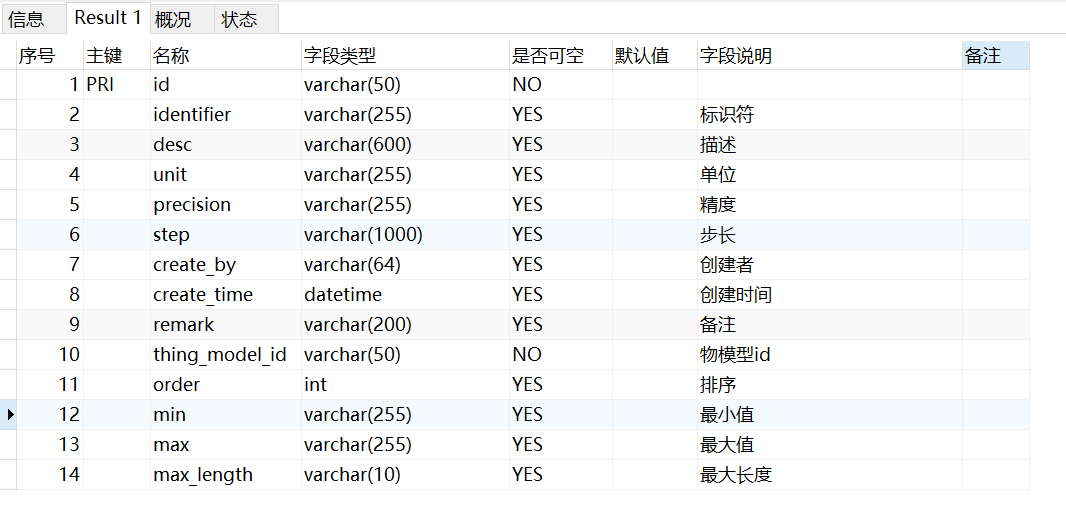
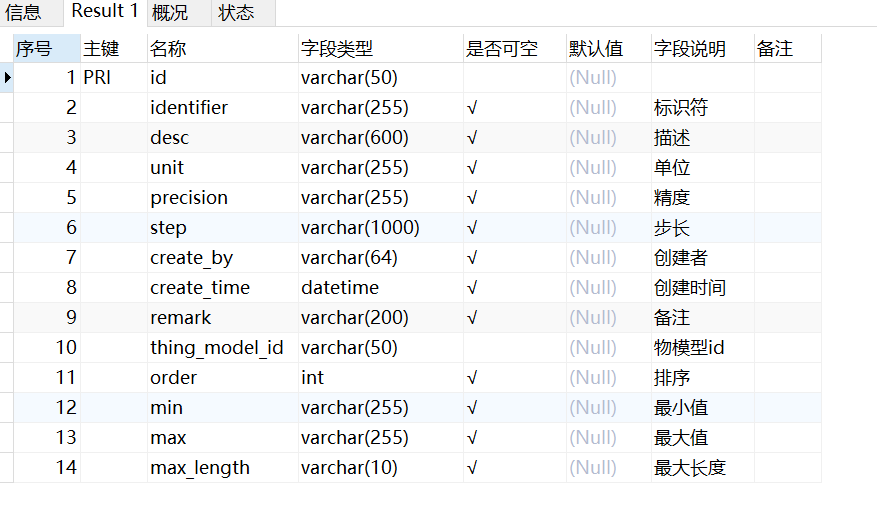
20240518

diff --git a/source/_posts/mysql快捷生成数据库结构设计.md b/source/_posts/mysql快捷生成数据库结构设计.md
@@ -16,10 +16,11 @@ cover: false
 ```
 select @rank:=@rank + 1 AS 序号,
 	b.COLUMN_KEY 主键,
-  b.COLUMN_NAME 名称,
+    b.COLUMN_NAME 名称,
 	b.column_type 字段类型,
-	b.IS_NULLABLE 是否可空,
-	'' 默认值,
+	case IS_NULLABLE when 'NO' then ''
+	else '√' end  是否可空,
+	b.COLUMN_DEFAULT 默认值,
 	b.column_comment 字段说明,
 	'' 备注
 from information_schema.COLUMNS b
